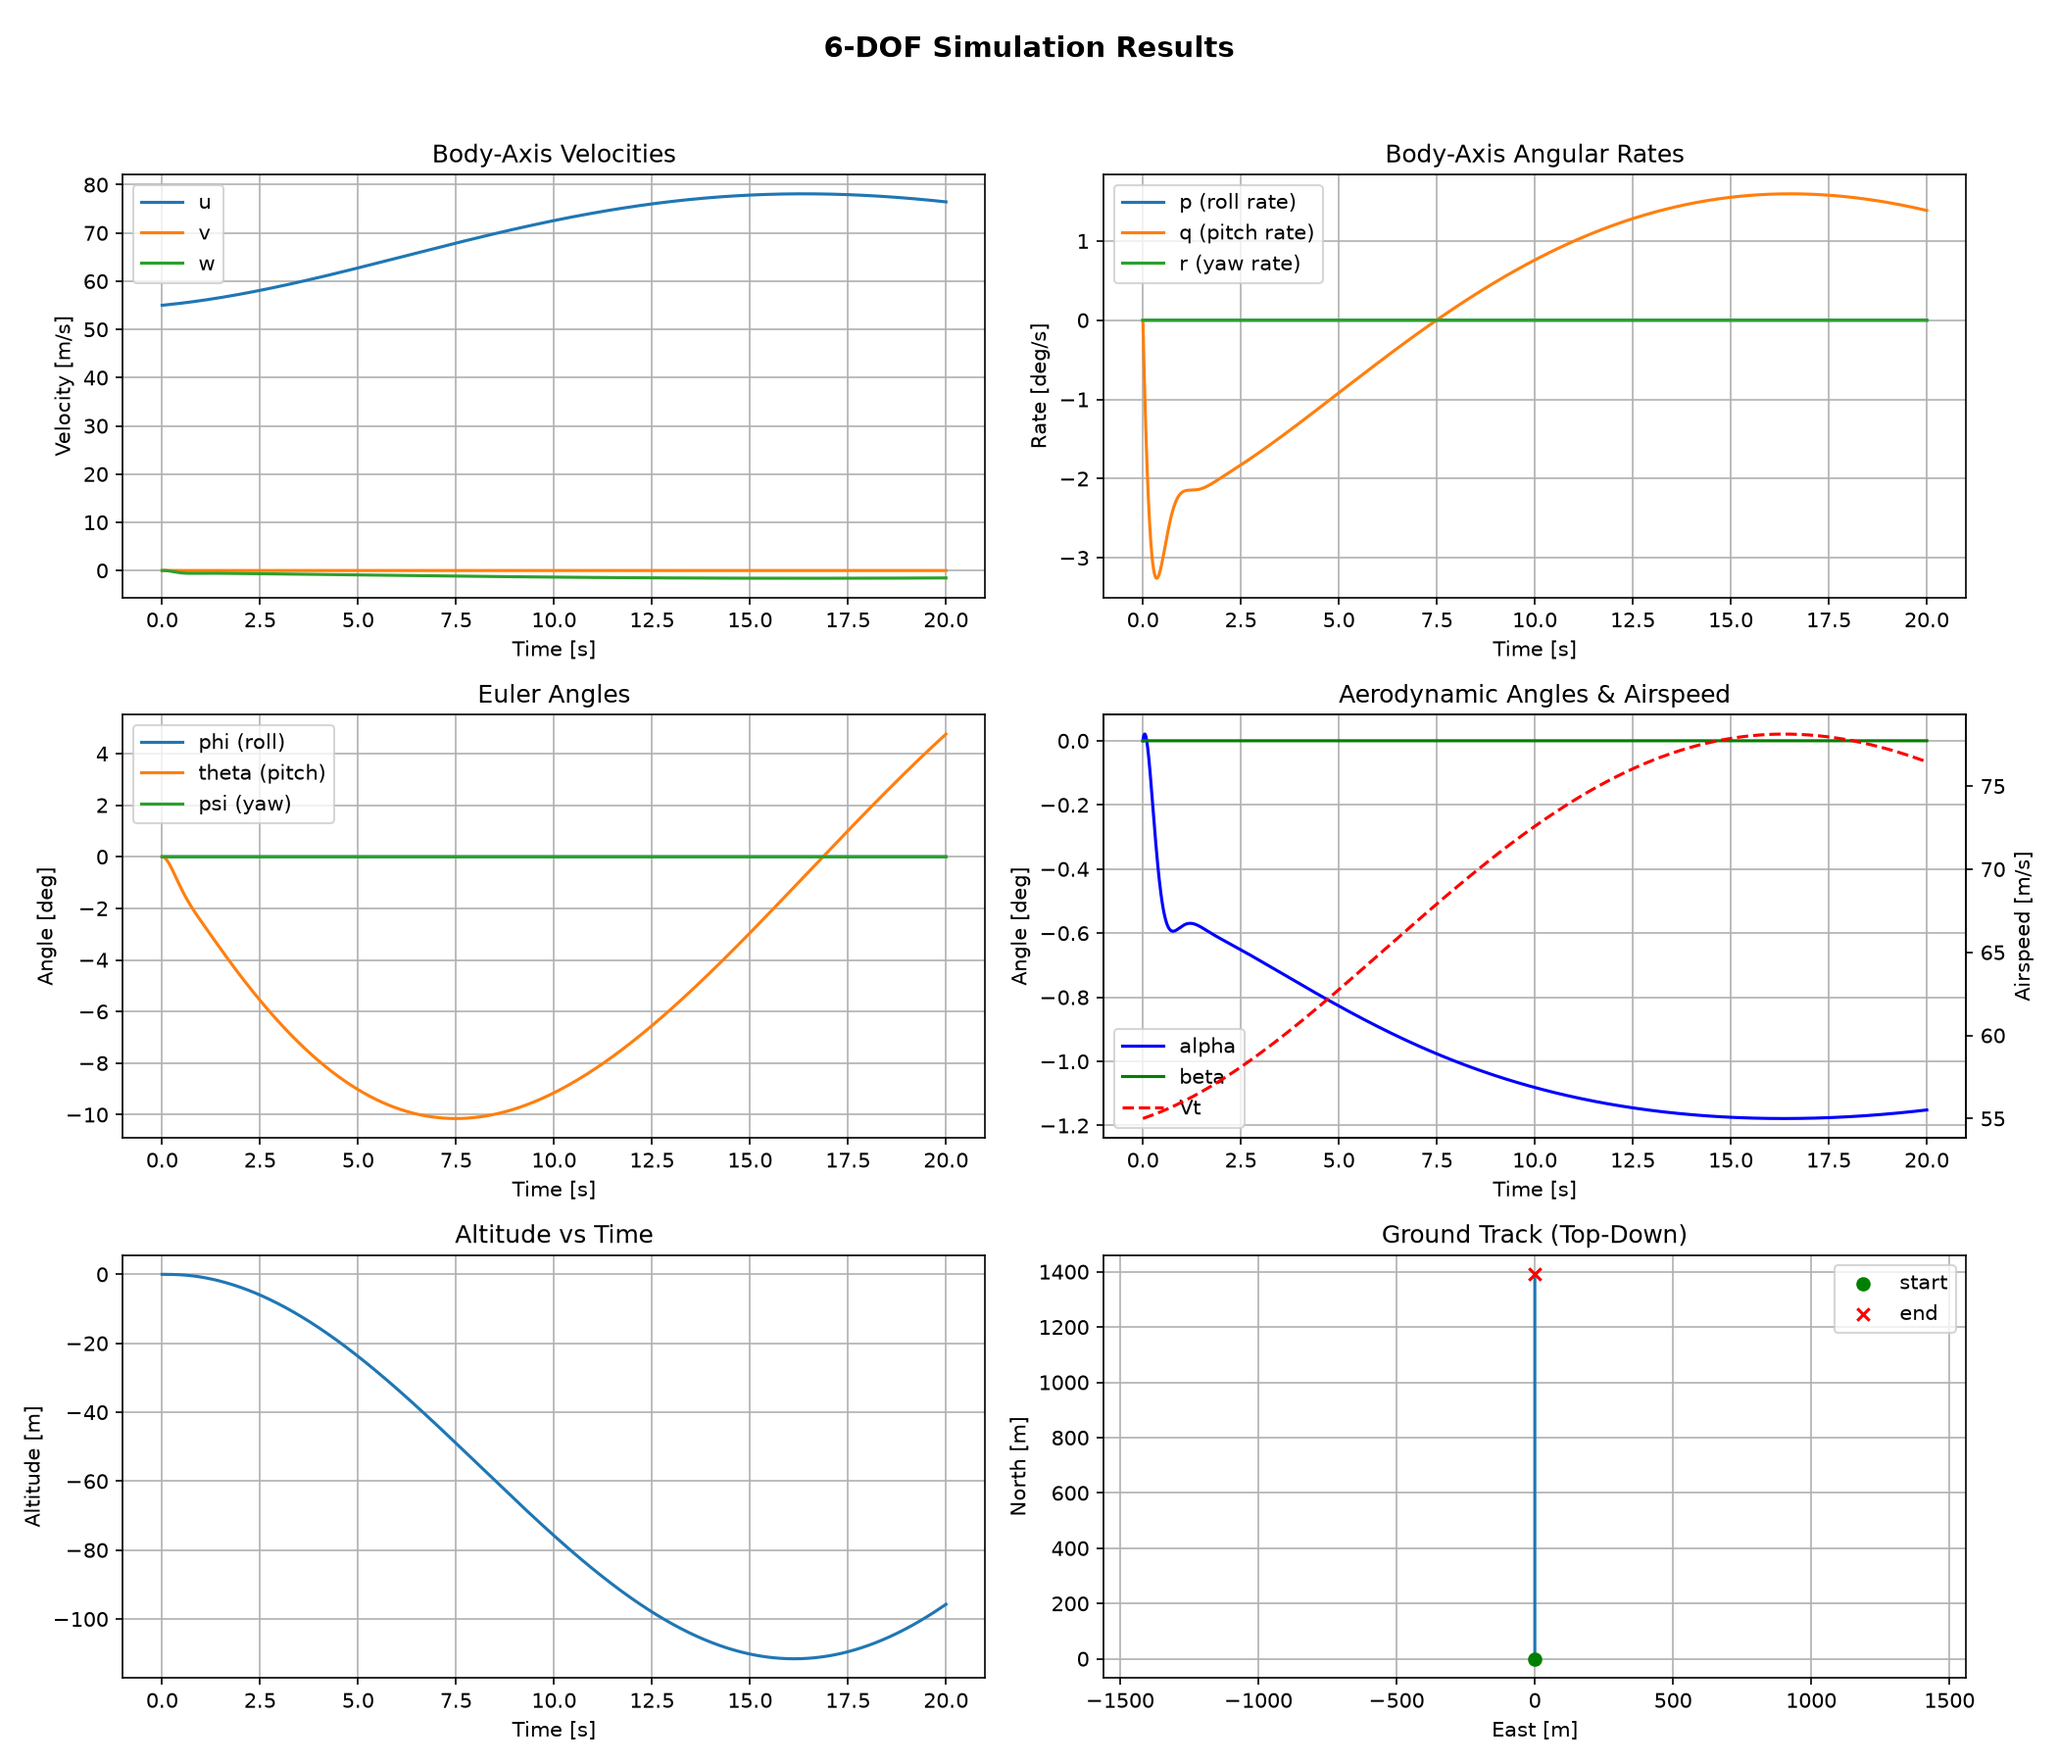
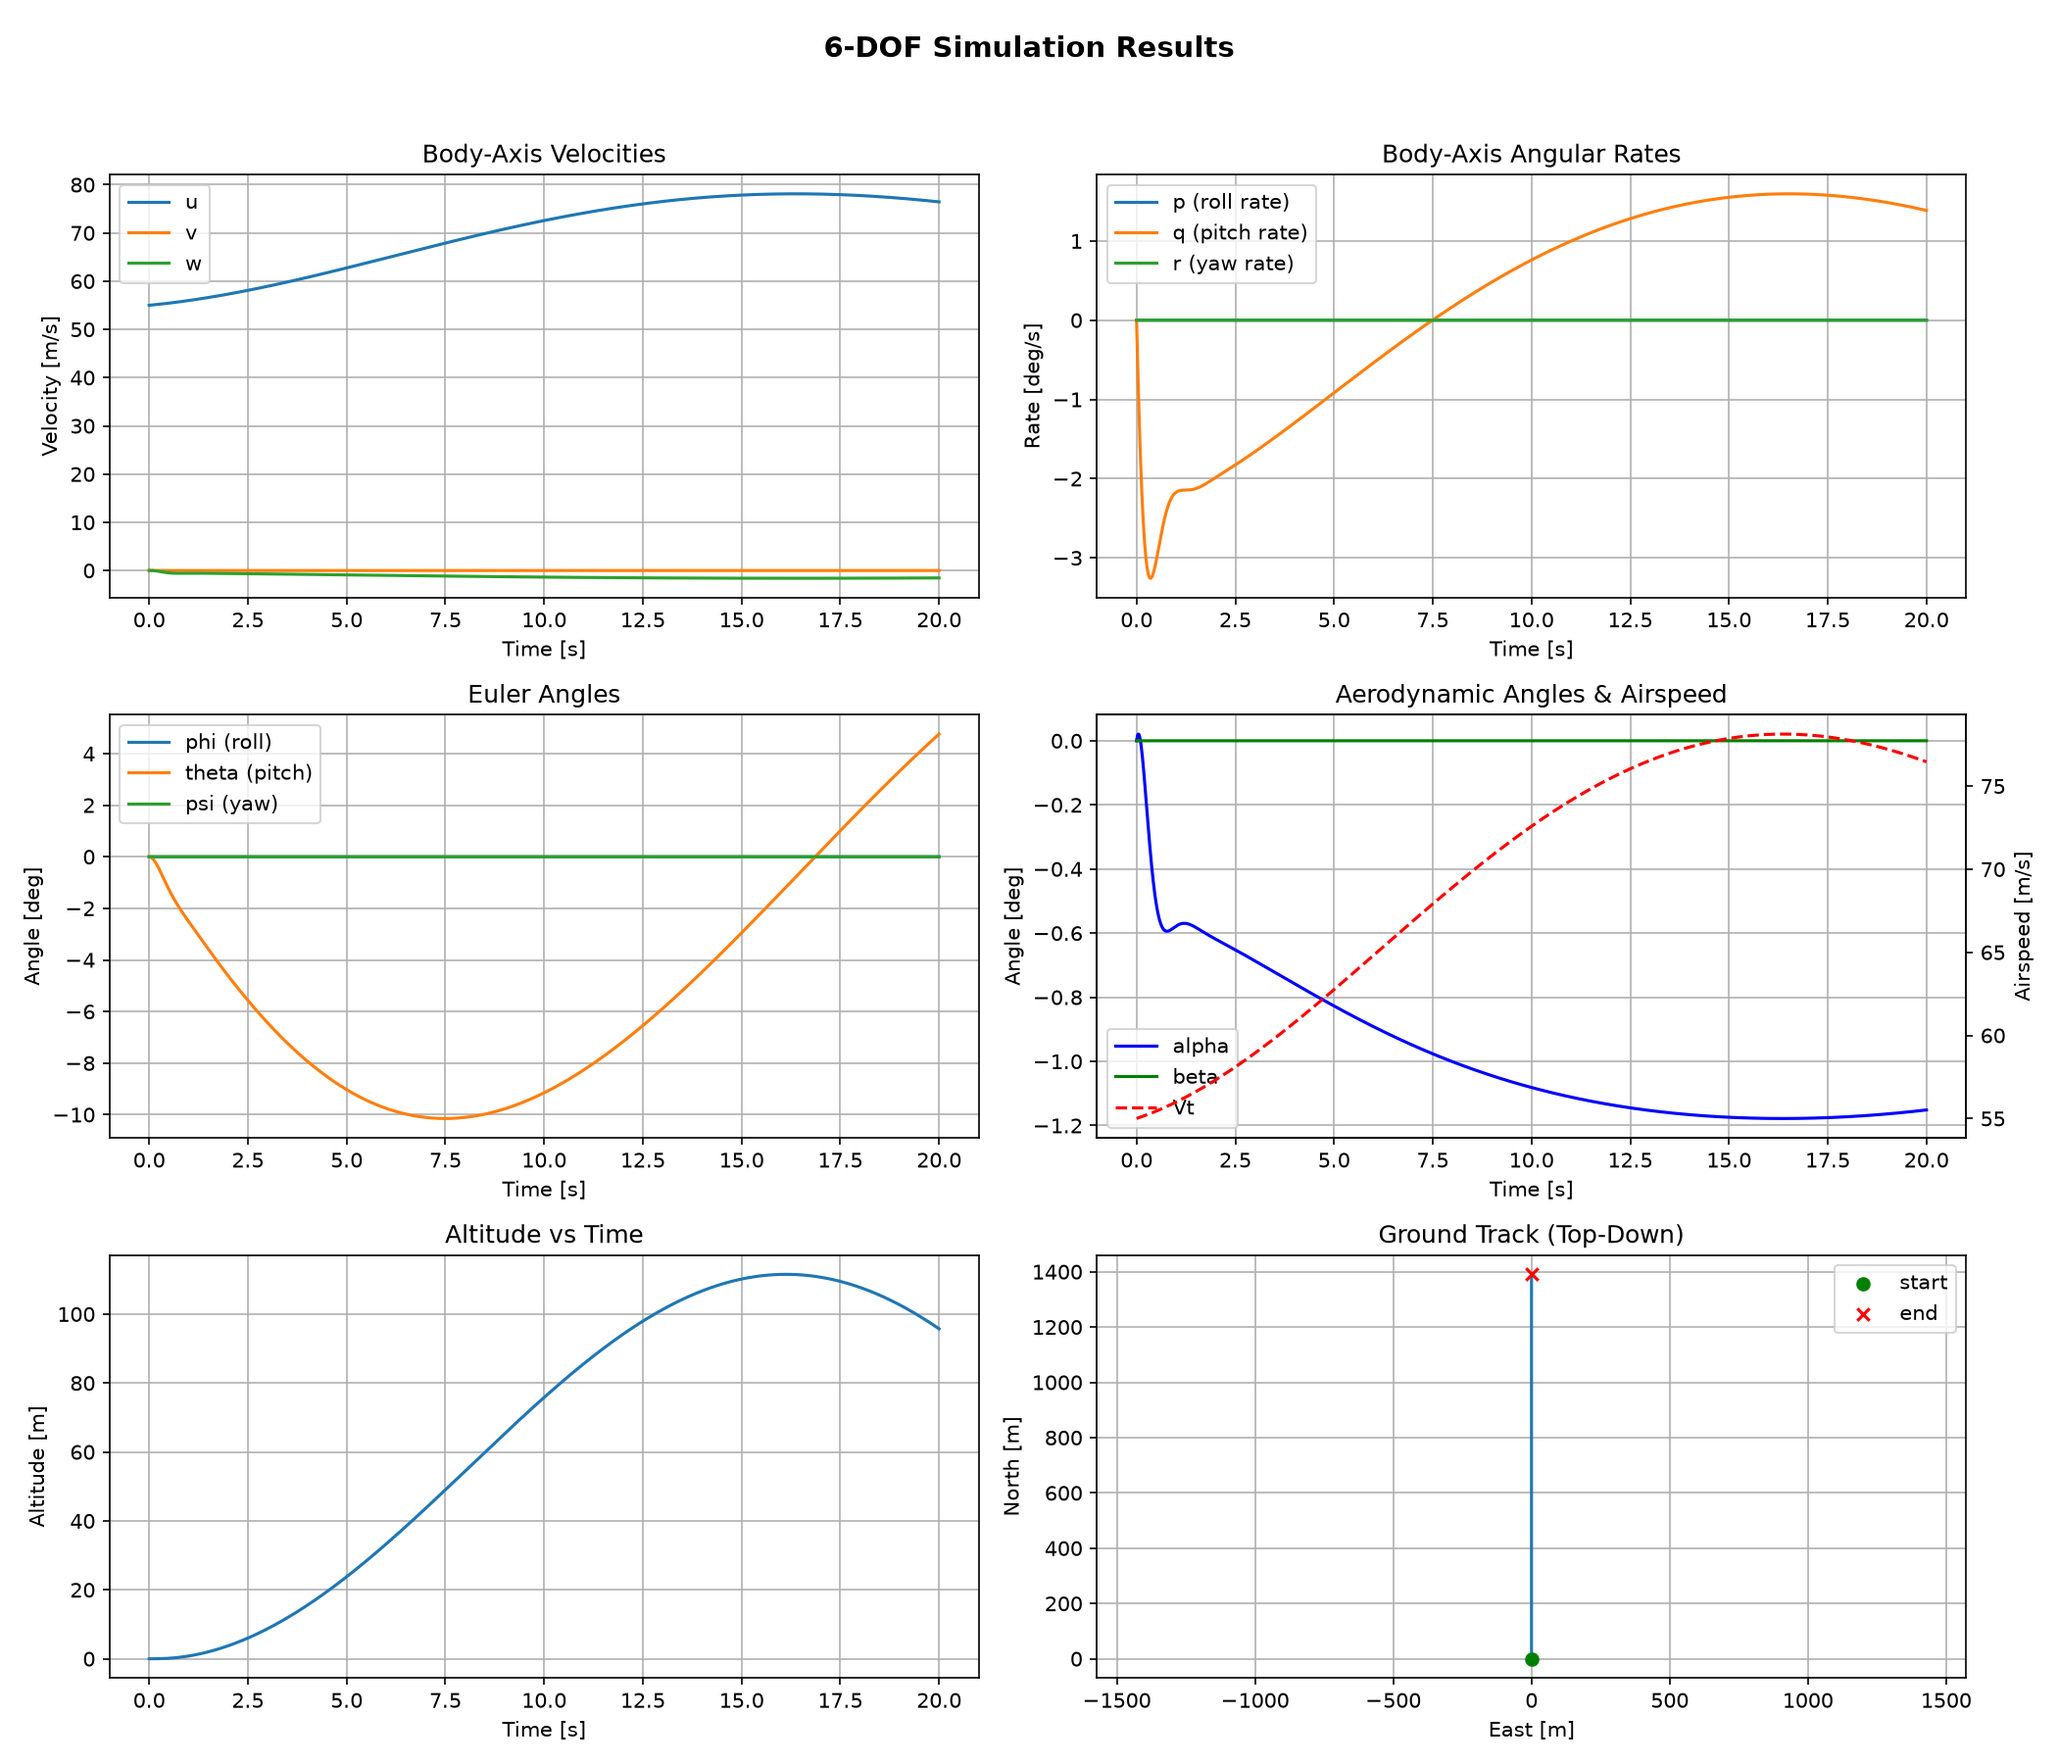
altitude sign change

diff --git a/results.py b/results.py
@@ -102,7 +102,7 @@ class PostProcessor:
 
     def plot_altitude(self, ax=None):
         ax = ax or plt.subplots()[1]
-        ax.plot(self.t, -self.PD)
+        ax.plot(self.t, self.PD)
         ax.set_xlabel('Time [s]')
         ax.set_ylabel('Altitude [m]')
         ax.set_title('Altitude vs Time')
